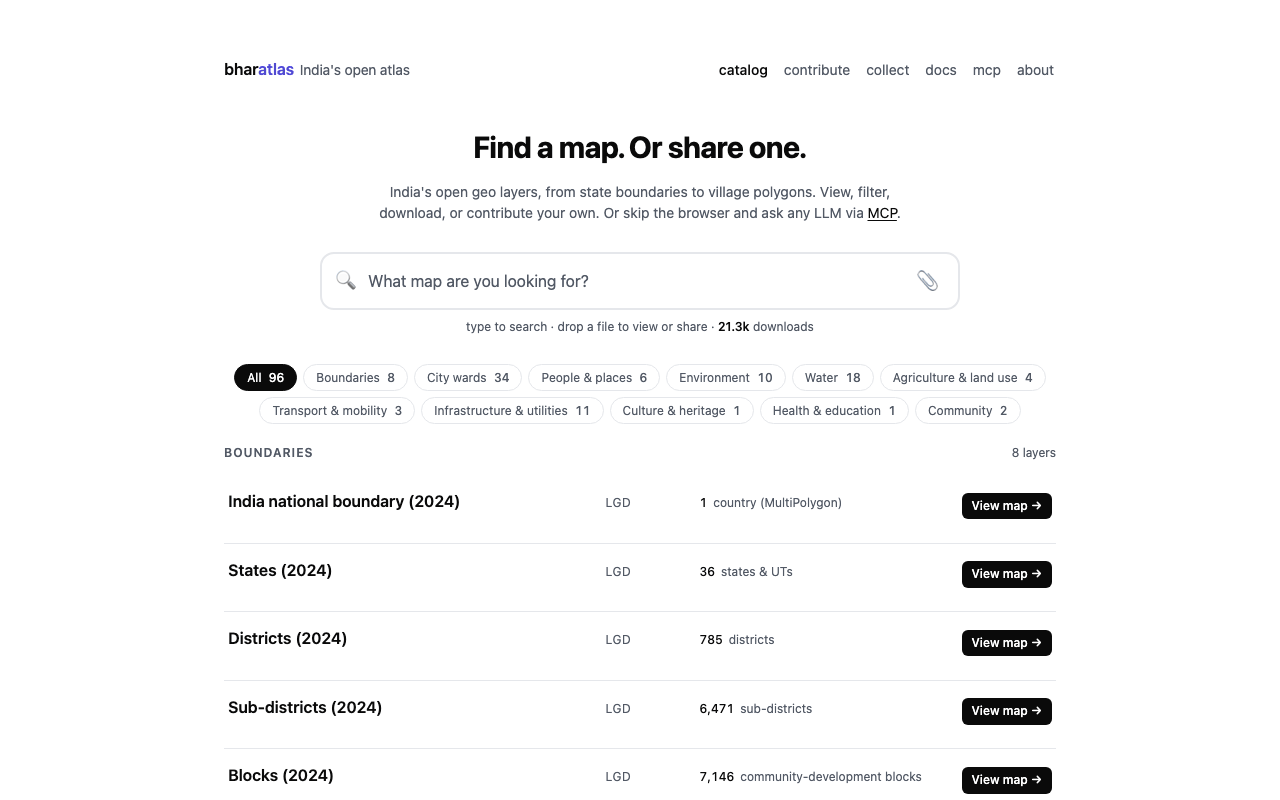
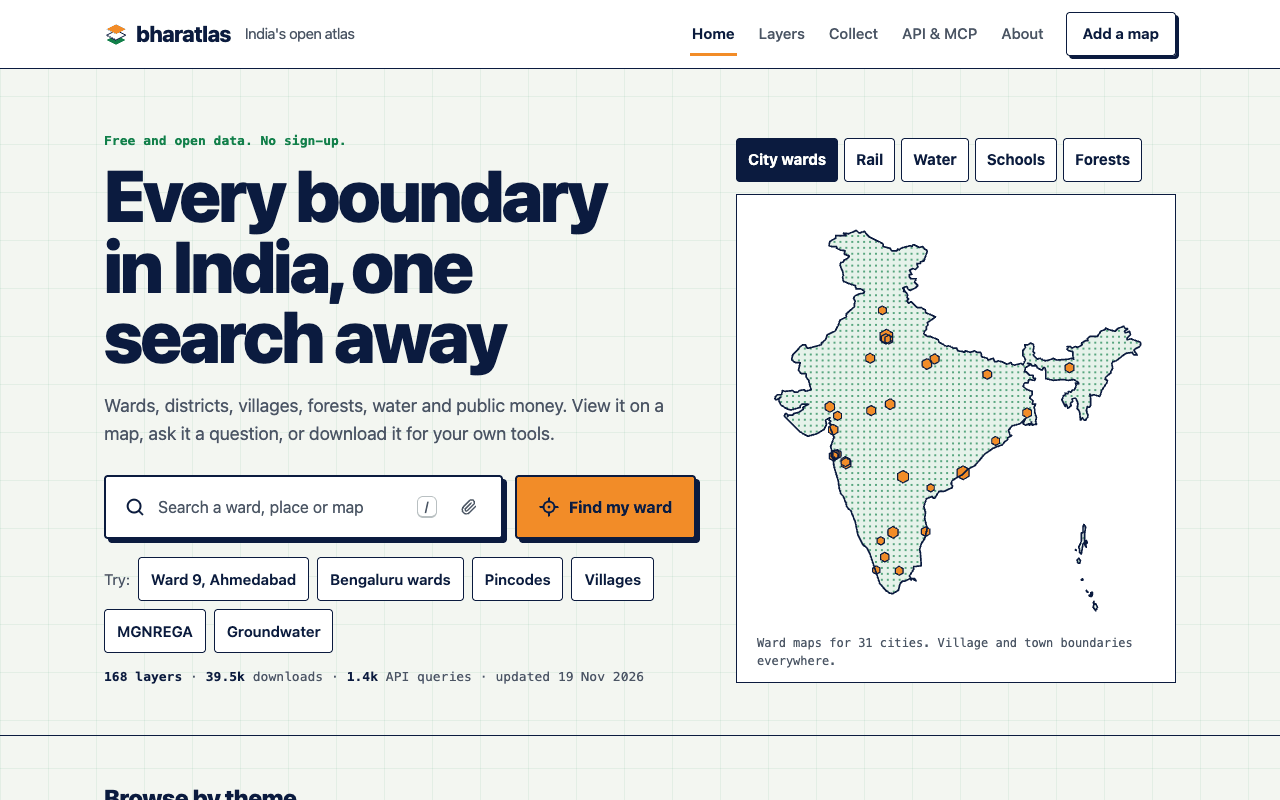
README: today's layers, themes, formats, releases and screenshots
168 layers with the site's definition (curated plus approved community
submissions, a baked one counted once); the theme table from
/api/v1/categories (26/42/26/26/13/13/8/5/4/4), with the new transport
layers (metro and RRTS stations and lines, bus stops); download counts
per format from catalog.json; w3id addresses described as live; layer
releases and `release.py --layer <id> --upload`; CC-BY-SA-2.5-IN in the
licence list; submissions reviewed, the token proves authorship and a
change or removal goes through us. w3id and latest-release badges. No
pinned MCP version (the npm badge shows it). Screenshots retaken from
the live site in light mode (home desktop 1280, home mobile 390 @2x,
/view/lgd_districts with the About panel, /view/wards_bengaluru_gba).

Claude-Session: https://claude.ai/code/session_01LGiB2UExpXiJZ7f8Qoaxr3

diff --git a/README.md b/README.md
@@ -8,6 +8,8 @@ India's open geo data in one place: browse, filter and download curated layers, 
 [![hosted on Cloudflare](https://img.shields.io/badge/hosted%20on-Cloudflare-F38020?logo=cloudflare&logoColor=white)](https://pages.cloudflare.com/)
 [![code licence: MIT](https://img.shields.io/badge/code-MIT-blue.svg)](./LICENSE)
 [![data: per-layer open licences](https://img.shields.io/badge/data-per--layer%20open%20licences-2ea44f)](#data-principles-and-attribution)
+[![w3id: persistent identifiers](https://img.shields.io/badge/w3id-bharatlas-0B1B3F)](https://w3id.org/bharatlas)
+[![latest release](https://img.shields.io/badge/dynamic/json?url=https%3A%2F%2Fbharatlas.com%2Freleases%2Findex.json&query=%24.latest.catalog&label=release&color=12804A)](https://w3id.org/bharatlas/catalog/latest)
 <br>
 [![npm: bharatlas-mcp](https://img.shields.io/npm/v/bharatlas-mcp?label=bharatlas-mcp&color=indigo)](https://www.npmjs.com/package/bharatlas-mcp)
 [![MCP Registry](https://img.shields.io/badge/MCP%20Registry-io.github.sathya--sankaran%2Fbharatlas--mcp-blue)](https://registry.modelcontextprotocol.io/v0/servers?search=io.github.sathya-sankaran/bharatlas-mcp)
@@ -16,9 +18,9 @@ India's open geo data in one place: browse, filter and download curated layers, 
 [![bharatlas MCP server on mcptry](https://mcptry.com/badge/io.github.sathya-sankaran/bharatlas-mcp)](https://mcptry.com/servers/io.github.sathya-sankaran/bharatlas-mcp)
 [![Listed on mcpservers.org](https://mcpservers.org/badge.svg)](https://mcpservers.org/servers/urbanmorph/geodata)
 
-**Live:** [bharatlas.com](https://bharatlas.com) · map authoring at [collect.bharatlas.com](https://collect.bharatlas.com) · API docs at [bharatlas.com/docs](https://bharatlas.com/docs) · MCP setup at [bharatlas.com/mcp](https://bharatlas.com/mcp)
+**Live:** [bharatlas.com](https://bharatlas.com) · all layers at [bharatlas.com/layers](https://bharatlas.com/layers) · map authoring at [collect.bharatlas.com](https://collect.bharatlas.com) · API docs at [bharatlas.com/docs](https://bharatlas.com/docs) · MCP setup at [bharatlas.com/mcp](https://bharatlas.com/mcp) · releases at [bharatlas.com/releases](https://bharatlas.com/releases)
 
-[![The bharatlas catalog on desktop](docs/screenshots/home-desktop.png)](https://bharatlas.com)
+[![The bharatlas home page on desktop: search, Find my ward, and a map of India's ward cities](docs/screenshots/home-desktop.png)](https://bharatlas.com)
 
 ## Contents
 
@@ -41,43 +43,44 @@ India's open geo data in one place: browse, filter and download curated layers, 
 
 ## What it does
 
-bharatlas is a catalog of India's open geo layers, from the national boundary down to villages and city wards, with water, environment, infrastructure, transport, health and agriculture layers alongside. Every layer opens on a map, can be filtered and sliced, and downloads whole in several formats. Anyone can add a layer under an open licence, or gather points from the field with collect. The same data is available through a REST API and an MCP server for LLMs. Reading needs no account and no API key.
+bharatlas is an atlas of India's open geo layers, from the national boundary down to villages and city wards, with water, environment, infrastructure, transport, health, agriculture and public-finance layers alongside. Every layer opens on a map, can be filtered and sliced, and downloads whole in several formats. Anyone can submit a layer under an open licence, or gather points from the field with collect; submissions are reviewed before they appear. The same data is available through a REST API and an MCP server for LLMs. Reading needs no account and no API key.
 
 | Layer view | City ward map | Mobile |
 |---|---|---|
-| [![LGD districts on the map](docs/screenshots/layer-view.png)](https://bharatlas.com/view/lgd_districts) | [![Bengaluru's 369 GBA wards](docs/screenshots/ward-map.png)](https://bharatlas.com/view/wards_bengaluru_gba) | [![The catalog on a phone](docs/screenshots/home-mobile.png)](https://bharatlas.com) |
+| [![LGD districts on the map, with the About panel: source, licence and downloads](docs/screenshots/layer-view.png)](https://bharatlas.com/view/lgd_districts) | [![Bengaluru's 369 GBA wards, with the ward list](docs/screenshots/ward-map.png)](https://bharatlas.com/view/wards_bengaluru_gba) | [![The bharatlas home page on a phone](docs/screenshots/home-mobile.png)](https://bharatlas.com) |
 
 ## Features
 
-- **Catalog:** India national boundary, then state, district, subdistrict, block, gram panchayat and village (LGD), with cross-source alternates (SOI, Bhuvan, geoBoundaries, PMGSY) shown as "also: ..." on each card. City wards, electoral constituencies, wildlife areas, eco-sensitive zones, rivers, canals, groundwater, floods, seismic zones, highways, hospitals, pincodes and more.
-- **View** (`/view/<id>`): each layer on a MapLibre map with a base map choice, filter and download, and its own share card.
+- **Layers** ([`/layers`](https://bharatlas.com/layers)): India national boundary, then state, district, subdistrict, block, gram panchayat and village (LGD), with cross-source alternates (SOI, Bhuvan, geoBoundaries, PMGSY) shown as "also: ..." on each card. City wards, electoral constituencies, wildlife areas, eco-sensitive zones, rivers, canals, groundwater, floods, seismic zones, highways, railways, metro and bus stops, hospitals, schools, pincodes, public finance and more.
+- **View** (`/view/<id>`): each layer on a MapLibre map with a base map choice, an About panel (source, licence, downloads), filter and download, and its own share card.
 - **Filter and slice:** facets, ranges and typeahead search built from each layer's schema. Export the slice in any download format.
 - **My ward / My district:** on ward and admin layers, a locate button finds the polygon you are standing in (or a shared `?at=` point) and lets you zoom to it or share it.
 - **Preview** (`/preview`): drop a GeoJSON, KML, KMZ, GPX, TCX or Parquet file to render and validate it in the browser. Nothing is uploaded until you choose Publish.
-- **Community layers** (`/c/<id>`): published submissions, reviewed by a curator before they appear, each with its source, licence and a "useful" vote.
+- **Community layers** (`/c/<id>`): submissions wait in a queue and appear once the owner approves them, each with its source, licence and a "useful" vote. The submitter gets a token that proves they made it; to change or remove a submission, contact us with that token.
 - **Embed** (`/embed/<id>`): an iframe of any map, plus PNG export.
-- **Collect** ([collect.bharatlas.com](https://collect.bharatlas.com)): design a small form, share a link, and anyone with it adds points, lines and areas from their phone with no account. Review contributions, then download them or publish to the catalog. Links are token-scoped (view, collect, admin).
-- **API** (`/api/v1`): list, schema, query, filter, `group_by` with per-group sums, locate (point-in-polygon across layers) and nearby (features within a radius).
-- **MCP server** ([`bharatlas-mcp`](https://www.npmjs.com/package/bharatlas-mcp)): 17 tools for LLMs, for reading the catalog and for authoring collect maps. Also shipped as a Claude Code plugin.
+- **Collect** ([collect.bharatlas.com](https://collect.bharatlas.com)): design a small form, share a link, and anyone with it adds points, lines and areas from their phone with no account. Review contributions, then download them or submit them to bharatlas as a layer (reviewed before it appears). Links are token-scoped (view, collect, admin); a map's admin controls their own map.
+- **API** (`/api/v1`): list, schema, query, filter, `group_by` with per-group sums, export a filtered slice, locate (point-in-polygon across layers, or in one layer) and nearby (features within a radius).
+- **Releases** ([`/releases`](https://bharatlas.com/releases)): dated copies that never change, pinned by SHA-256, each with a permanent [w3id.org](https://w3id.org/bharatlas) address to cite.
+- **MCP server** ([`bharatlas-mcp`](https://www.npmjs.com/package/bharatlas-mcp)): 17 tools for LLMs, for reading layers and for authoring collect maps. Also shipped as a Claude Code plugin.
 
 ## Layers and sources
 
-The live catalog lists 148 layers (`GET /api/v1/layers`, checked 15 November 2026), plus community submissions (`GET /api/v1/submissions`). Counts by category, from `GET /api/v1/categories`:
+bharatlas has 168 layers (checked 19 November 2026): the curated layers, plus the community submissions that have been approved, from the Contribute page or from collect. A submission that has been baked into a curated layer (`c_<id>`) counts once. `GET /api/v1/layers` lists the 167 curated entries (one of them a baked community layer) and `GET /api/v1/submissions` the approved submissions. Curated layers by theme, from `GET /api/v1/categories`:
 
-| Category | Layers | Examples |
+| Theme | Layers | Examples |
 |---|---:|---|
-| Boundaries | 22 | `lgd_states` to `lgd_villages`; SOI, Bhuvan and geoBoundaries alternates; PMGSY blocks and habitations; town and city boundaries (SBM); West Bengal town boundaries (AMRUT) |
-| City wards | 41 | `wards_bengaluru_gba`, `wards_chennai`, `wards_mumbai`, `wards_delhi`; BDA jurisdiction and layouts; `sbm_wards` (about 3,300 towns and cities); Kalyan-Dombivli wards; Pune 2025 administrative wards; zones for Greater Bengaluru, Pune and Chennai; West Bengal wards (AMRUT, 52 towns) |
-| Water | 22 | WRIS rivers, canals, basins, dams, reservoirs; CGWB aquifers and groundwater extraction; groundwater quality pre- and post-monsoon (Bhuvan); Amrit Sarovar ponds; India Flood Inventory; NDEM floods 1998-2022 |
+| Boundaries | 26 | `lgd_states` to `lgd_villages`; SOI, Bhuvan and geoBoundaries alternates; PMGSY blocks and habitations; town and city boundaries (SBM); West Bengal town boundaries (AMRUT); land parcels for Delhi, Goa and the Puducherry and Andaman coasts |
+| City wards | 42 | `wards_bengaluru_gba`, `wards_chennai`, `wards_mumbai`, `wards_delhi`; BDA jurisdiction and layouts; `sbm_wards` (about 3,300 towns and cities); Kalyan-Dombivli wards; Pune 2025 administrative wards; zones for Greater Bengaluru, Pune and Chennai; West Bengal wards (AMRUT, 52 towns) |
+| Water | 26 | WRIS rivers, canals, basins, watersheds, lakes, dams, reservoirs; CGWB aquifers and groundwater extraction; groundwater quality and prospects (Bhuvan); 1st Census of Water Bodies; Amrit Sarovar ponds; India Flood Inventory; NDEM floods 1998-2022 |
 | Infrastructure and utilities | 13 | pincode polygons, VEDAS power plants and transmission lines, Jal Jeevan Mission facilities, Overture places |
-| Environment | 21 | forest circles, divisions, ranges and beats (FSI); wildlife sanctuaries, reserves and corridors; eco-sensitive zones; Coastal Regulation Zones 2019; geology, coal blocks, critical minerals and lineaments (GSI); seismic zones, landslides, earthquakes, cyclone tracks |
+| Environment | 26 | forest circles, divisions, ranges, beats and recorded forest area (FSI); wildlife sanctuaries, reserves and corridors; eco-sensitive zones; Coastal Regulation Zones 2019; geology, lithology, coal blocks, critical minerals and lineaments (GSI); geomorphology and land degradation (Bhuvan); seismic zones, landslides, earthquakes, cyclone tracks |
 | People and places | 13 | parliament and assembly constituencies, high courts, NGT zones, NCLT benches; police station jurisdictions (Andhra Pradesh, Bihar, Delhi, Tamil Nadu, Telangana, marine) |
 | Agriculture and land use | 4 | agro-ecological and agro-climatic zones, soil health, land use by block |
-| Transport and mobility | 5 | highways, airports, PMGSY roads; Indian Railways stations and tracks |
+| Transport and mobility | 8 | highways, airports, PMGSY roads; Indian Railways stations and tracks; metro and RRTS stations and lines; bus stops (OpenStreetMap, with Bengaluru, Pune, Mumbai, Ahmedabad and Chennai bus feeds) |
 | Health and education | 4 | NIC HealthGIS health facilities; NHP hospital directory and NIN health facilities (2025); UDISE schools (2.9 million) |
-| Economy and finance | 3 | MGNREGA by district (2025-26): spending, wages, persondays, households, women, SC and ST work, with yearly spend since 2018-19; city finances from CityFinance.in: income and expenditure by account head for about 3,000 towns and cities; state economy and finance: GSDP, per-capita NSDP, debt, GST and direct tax, MUDRA, KCC and Jan Dhan accounts |
+| Economy and finance | 5 | MGNREGA by district (2025-26): spending, wages, persondays, households, women, SC and ST work, with yearly spend since 2018-19; city finances from CityFinance.in: income and expenditure by account head, and balance sheets, for about 3,000 towns and cities; state economy and finance: GSDP, per-capita NSDP, debt, GST and direct tax, MUDRA, KCC and Jan Dhan accounts; Chennai property tax by ward |
 
-The full catalog, with each layer's source, licence, row count, freshness and download sizes, lives in [`catalog.json`](./catalog.json) and on [bharatlas.com](https://bharatlas.com). Known data caveats (name spellings across sources, coverage gaps, polygon precision) are on [/about#caveats](https://bharatlas.com/about#caveats).
+Every layer, with its source, licence, row count, freshness and download sizes, is listed in [`catalog.json`](./catalog.json) and on [bharatlas.com/layers](https://bharatlas.com/layers). Known data caveats (name spellings across sources, coverage gaps, polygon precision) are on [/about#caveats](https://bharatlas.com/about#caveats).
 
 ## Downloads and formats
 
@@ -85,17 +88,17 @@ Each layer downloads whole from its card or its view page:
 
 | Format | Use it for | Layers that have it |
 |---|---|---:|
-| Parquet (GeoParquet) | analysis in DuckDB, pandas, GeoPandas, QGIS | 109 of 109 |
-| PMTiles | web maps, including the map view itself | 108 of 109 |
-| GeoJSON | web tools, most GIS software | 108 of 109 |
-| KML | Google Earth | 104 of 109 |
-| Shapefile (zipped) | desktop GIS | 103 of 109 |
+| Parquet (GeoParquet) | analysis in DuckDB, pandas, GeoPandas, QGIS | 167 of 167 |
+| PMTiles | web maps, including the map view itself | 166 of 167 |
+| GeoJSON | web tools, most GIS software | 151 of 167 |
+| KML | Google Earth | 146 of 167 |
+| Shapefile (zipped) | desktop GIS | 133 of 167 |
 
-The files are served from Cloudflare R2. `GET /api/v1/layers/<id>` returns the URL and size of each format the layer has. A filtered slice exports from the Filter panel in the same formats. Very large layers (gram panchayats, villages) are best sliced by state in the viewer or read from the parquet.
+Counts are of the curated entries in `catalog.json` (19 November 2026). The files are served from Cloudflare R2. `GET /api/v1/layers/<id>` returns the URL and size of each format the layer has. A filtered slice exports from the Filter panel, or from `GET /api/v1/layers/<id>/export`, as GeoJSON, KML or CSV. Very large layers (gram panchayats, villages) are best sliced by state in the viewer or read from the parquet.
 
 ## Use it from an AI assistant (MCP)
 
-`bharatlas-mcp` is a stdio MCP server published on [npm](https://www.npmjs.com/package/bharatlas-mcp) and in the [official MCP Registry](https://registry.modelcontextprotocol.io/v0/servers?search=io.github.sathya-sankaran/bharatlas-mcp) as `io.github.sathya-sankaran/bharatlas-mcp` (v1.4.0). It is also listed on Glama, as the [repository](https://glama.ai/mcp/servers/urbanmorph/geodata) and as the [hosted connector](https://glama.ai/mcp/connectors/io.github.sathya-sankaran/bharatlas-mcp). Read tools need no key; collect tools act only on maps whose share link you register.
+`bharatlas-mcp` is a stdio MCP server published on [npm](https://www.npmjs.com/package/bharatlas-mcp) and in the [official MCP Registry](https://registry.modelcontextprotocol.io/v0/servers?search=io.github.sathya-sankaran/bharatlas-mcp) as `io.github.sathya-sankaran/bharatlas-mcp` (the npm badge above shows the current version). It is also listed on Glama, as the [repository](https://glama.ai/mcp/servers/urbanmorph/geodata) and as the [hosted connector](https://glama.ai/mcp/connectors/io.github.sathya-sankaran/bharatlas-mcp). Read tools need no key; collect tools act only on maps whose share link you register.
 
 **Hosted, nothing to install.** The eight read tools also run at `https://bharatlas.com/mcp` (Streamable HTTP, no key, read-only). Add it as a custom connector in Claude.ai or ChatGPT, or:
 
@@ -151,7 +154,7 @@ From [`mcp/index.js`](./mcp/index.js):
 | `locate` | Admin boundaries, zones and (in covered cities) the ward that contain a lat/lng |
 | `nearby` | Features from a layer within a radius of a point, nearest first |
 | `list_categories` | Categories with layer counts |
-| `get_layer_detail` | Download URLs, attribution, licence and feature count for one layer |
+| `get_layer_detail` | Download URLs, attribution, licence, feature count and dated versions to cite for one layer |
 | `list_submissions` | Community-submitted layers under open licences |
 | `register_map` | Register a collect share link; its token sets your scope (view, collect, admin) |
 | `list_my_maps` | The collect maps registered on this machine |
@@ -160,19 +163,19 @@ From [`mcp/index.js`](./mcp/index.js):
 | `moderate_record` | Approve or reject a pending point (admin link) |
 | `import_points` | Bulk-import points you hold into a collect map, with a named source (admin link) |
 | `edit_map` | Edit a collect map's name, description, purpose, category, data year or base map (admin link) |
-| `publish` | Submit a collect map's approved points to the catalog for review (admin link) |
+| `publish` | Submit a collect map's approved points to bharatlas as a layer, for review (admin link) |
 | `create_map` | Optional: create a collect map headlessly; needs `COLLECT_API_KEY`. Most maps are made at collect.bharatlas.com |
 
 Registered collect links are stored in `~/.bharatlas-mcp.json` (override with `COLLECT_MCP_STORE`). More in [`mcp/README.md`](./mcp/README.md).
 
 ## API
 
-Base URL `https://bharatlas.com/api/v1`. No API key; rate-limited per IP. Full reference: [bharatlas.com/docs](https://bharatlas.com/docs).
+Base URL `https://bharatlas.com/api/v1` (a prefix, not a page). No API key; rate-limited per IP. Full reference: [bharatlas.com/docs](https://bharatlas.com/docs).
 
 Please send a `User-Agent` that names your app (for example `my-app/1.0`). We read it only to tell apps, AI tools and crawlers apart, so our counts of how each mode is used stay honest. We don't store it, and we don't track who you are.
 
 ```bash
-# every catalog layer
+# every curated layer
 curl 'https://bharatlas.com/api/v1/layers'
 
 # a layer's columns and sample values, before querying
@@ -186,6 +189,12 @@ curl 'https://bharatlas.com/api/v1/locate?lat=12.9716&lng=77.5946'
 
 # health facilities within 10 km of a point
 curl 'https://bharatlas.com/api/v1/nearby?lat=12.9716&lng=77.5946&layer=nic_health&radius_km=10'
+
+# one district's villages as GeoJSON (add estimate=1 for the count and size first)
+curl -o villages.geojson 'https://bharatlas.com/api/v1/layers/lgd_villages/export?where=dist_lgd=525&format=geojson'
+
+# dated releases, newest first
+curl 'https://bharatlas.com/api/v1/releases'
 ```
 
 collect has its own token-authenticated write API at `https://collect.bharatlas.com/api/collect/v1`.
@@ -197,12 +206,17 @@ Dated, immutable releases, each named by a code `bharatlas-<dataset>-<year>.<mon
 - **`bharatlas-cw-…`**: the Census 2011 ↔ LGD crosswalk, one table per level (`cw_states`, `cw_districts`, `cw_subdistricts`, `cw_blocks`, `cw_villages`; CSV and Parquet), built by [`scripts/build_crosswalks.py`](./scripts/build_crosswalks.py) from the Census 2011 codes the LGD layers already carry. Each row is an LGD code, its name, the 2011 code, and a relation derived from how the codes repeat (1:1, split, merge, split+merge, post-2011 code, no 2011 code, no LGD code). The source gives districts made after 2011 a code past 640 instead of their parent's, so a new district's parent is not in this data; splits show at the subdistrict, block and village levels. Each table keeps its LGD layer's licence.
 - **`bharatlas-catalog-…`**: the dated catalogue record ([`scripts/catalog_record.py`](./scripts/catalog_record.py)): per layer the source, the source's own version (a GitHub release asset's digest where there is one), fetch date, SHA-256 of the served file, licence and source link.
 
-Cut with [`scripts/release.py`](./scripts/release.py): manifests are committed under `web/public/releases/<code>/`; data files go to R2 at `releases/<code>/` and `/releases/<code>/<file>` redirects there. A re-run with the same files changes nothing; different files under an existing code are refused. No DOIs for now; `w3id.org/bharatlas/<dataset>/<year>.<month>` is the proposed persistent address.
+- **`bharatlas-<layer id>-…`**: a layer's own release (`release.py --layer <id>`): its parquet and downloads (never its map tiles), with a `CHANGES.md` against its previous release. `GET /api/v1/layers/<id>` and the MCP `get_layer_detail` list a layer's versions to cite.
+
+Persistent addresses are live on [w3id.org](https://w3id.org/bharatlas): `w3id.org/bharatlas` leads to [/releases](https://bharatlas.com/releases); `w3id.org/bharatlas/<dataset>` to that dataset's list of releases; `w3id.org/bharatlas/<dataset>/latest` to its newest release; and `w3id.org/bharatlas/<dataset>/<YYYY.MM>[/<file>]` to one release or one of its files. Cite a release by its code and pin and link its w3id address, for example `bharatlas-cw-2026.11`, [w3id.org/bharatlas/cw/2026.11](https://w3id.org/bharatlas/cw/2026.11). No DOIs for now.
+
+Cut with [`scripts/release.py`](./scripts/release.py): manifests are committed under `web/public/releases/<code>/`; data files go to R2 at `releases/<code>/` and `/releases/<code>/<file>` redirects there. A re-run with the same files changes nothing; different files under an existing code are refused. With `--upload` it also uploads the files to R2: resumable, never overwriting a key that holds other bytes, and checking each file on R2 (size and md5) afterwards; a re-run skips what is already there.
 
 ```bash
 python3 scripts/build_crosswalks.py                 # -> data/release-staging/cw/
 python3 scripts/catalog_record.py                   # -> data/release-staging/catalog/ (downloads every served file once; cached, resumable)
-python3 scripts/release.py data/release-staging/cw data/release-staging/catalog   # prints the R2 upload commands
+python3 scripts/release.py data/release-staging/cw data/release-staging/catalog   # cut; prints the R2 keys
+python3 -u scripts/release.py --layer <id> --upload  # cut a layer's release and upload it (R2 creds in the env)
 ```
 
 ## Data principles and attribution
@@ -210,7 +224,7 @@ python3 scripts/release.py data/release-staging/cw data/release-staging/catalog 
 - **Downloads are the source layer as published.** A layer's files keep the attributes its source published. bharatlas does not edit, correct or rename boundaries or place names.
 - **View-only enrichment lives in sidecars.** Extras that help people read a map, such as the OpenStreetMap area names shown on number-only ward maps, are kept in separate sidecar files (`web/public/ward-index/<layer>.json`), credited to their own source, and are not in the downloads.
 - **How sources are chosen.** Curated layers come from Indian government bodies, public institutions, open-data communities (DataMeet, OpenCity) and openly licensed research and industry datasets, favouring data a map app doesn't have: official jurisdictions, regulatory zones, measured records. Publicly funded government geodata is republished with full credit to the publishing department (National Geospatial Guidelines 2021, National Geospatial Policy 2022), including where a portal's general website terms ask for permission. Layers under a non-commercial licence are marked **Non-commercial only** on their card, on their map page and in every API and MCP answer (`non_commercial: true` plus a `licence_notice`); check before using them commercially. Privately owned data without an open licence, and personal data, are left out. Where the publisher states an open licence (GODL-India, CC BY) the layer carries it; where it states none, the layer carries the republisher's licence (for example CC0 from indianopenmaps) and credits both. Publishers can ask for a correction, different credit or removal: [/about#sources-and-licensing](https://bharatlas.com/about#sources-and-licensing).
-- **Each layer keeps its own source and licence.** Curated layers carry CC0-1.0, CC-BY-4.0, CC-BY-SA-4.0, ODbL-1.0, GODL-India, MIT, or CDLA-Permissive-2.0 / Apache-2.0, depending on the upstream source. Community submissions choose from an open-licence allowlist (CC0, CC-BY, CC-BY-SA, ODbL, ODC-PDDL, GODL-India, CDLA Permissive 2.0).
+- **Each layer keeps its own source and licence.** Curated layers carry CC0-1.0, CC-BY-4.0, CC-BY-SA-4.0, CC-BY-SA-2.5-IN, ODbL-1.0, GODL-India, MIT, or CDLA-Permissive-2.0 / Apache-2.0, depending on the upstream source; some carry two (for example CC0-1.0 / CC-BY-4.0, where a republisher's licence sits beside the source's). Community submissions choose from an open-licence allowlist (CC0, CC-BY, CC-BY-SA, ODbL, ODC-PDDL, GODL-India, CDLA Permissive 2.0).
 - **Credit the source when you use a layer.** Every card and view page names the layer's source and licence. `GET /api/v1/layers/<id>` and the MCP `get_layer_detail` tool return the same attribution and licence, and each `/view` page's Dataset JSON-LD carries a `creditText` to reproduce. Follow that licence's terms (for example, attribution for CC-BY, share-alike for ODbL and CC-BY-SA).
 - **Provided as-is.** Curated layers reflect the upstream source at fetch time and can lag. For legal or administrative use, go to the upstream source. Full terms: [/about#use-of-data](https://bharatlas.com/about#use-of-data).
 
@@ -234,8 +248,8 @@ collect/              collect.bharatlas.com: map-capture app and its API (functi
 shared/               code shared by web and collect (base map style, imagery, passkeys)
 mcp/                  bharatlas-mcp, the MCP server published to npm
 plugins/claude-code/  Claude Code plugin; .claude-plugin/marketplace.json lists it
-scripts/              Python and shell data pipeline: fetch, bake formats, build the catalog, upload to R2, moderation
-catalog.json          curated-layer index; the single source of truth for the viewer
+scripts/              Python and shell data pipeline: fetch, bake formats, build catalog.json, upload to R2, moderation
+catalog.json          the curated-layer index; the single source of truth for the viewer, API and MCP
 docs/screenshots/     images for this README (not part of the site build)
 PDGI.md               PDGI principles scorecard
 ```
@@ -284,7 +298,7 @@ Pull requests build and test but do not deploy. MCP releases are published to np
 
 ## Contributing
 
-**Data:** drop a file on [bharatlas.com/preview](https://bharatlas.com/preview) and publish it under an open licence, or gather it with [collect](https://collect.bharatlas.com). A curator reviews each submission before it appears.
+**Data:** drop a file on [bharatlas.com/preview](https://bharatlas.com/preview) and submit it under an open licence, or gather it with [collect](https://collect.bharatlas.com). Submissions wait in a queue and appear once the owner approves them. Keep the token you get: it proves you made the submission, and to change or remove it you contact us with it.
 
 **Code:**
 
